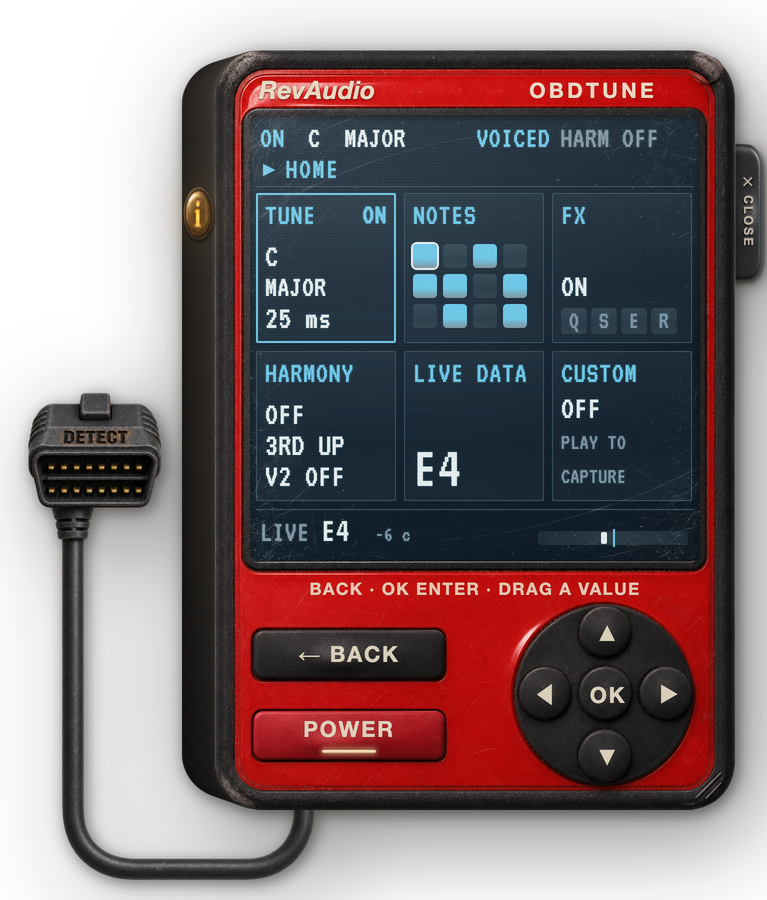
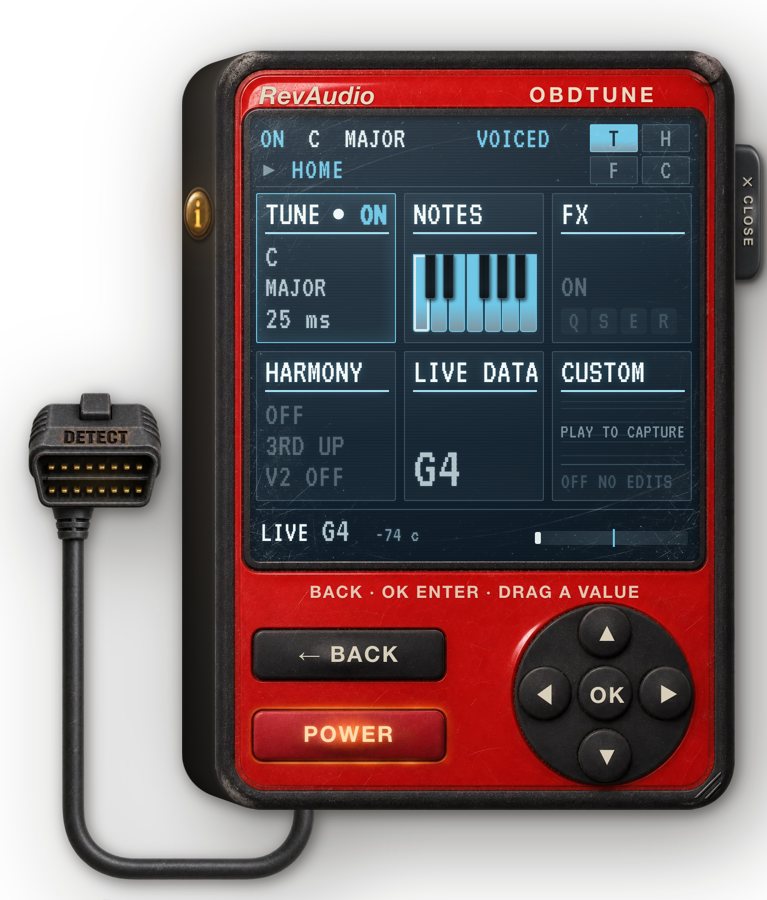
OBDTUNE on sale (Gil 2026-11-24): live at $15, listed on the home TV + /plugins (teal channel), /downloads, /support, /buy/obdtune and the /review picker; indexed
- plugins.ts: status live, introPriceUsd 15, os macOS 10.13+, a `library` entry (pitch correction; vocals + creative)
- WordWall: the 0.9.5 scanner as a float window (transparent, as GAS 2), channel hue 184 (clear of WIDE BEAM's 205)
- obdtune-hero.png: re-shot from 0.9.5 (the cart thumbnail and the TV)
- library.ts TV_ORDER: after WIDE BEAM; downloads DL_SLUGS: obdtune (the hub's DL_PLUGINS.obdtune is live)
- /obdtune index true (it was noindex); smoke route added

Windows: the hub's obdtune-win slot stays "coming soon" until Yoni uploads it on /pit-lane; nothing here waits on it.

diff --git a/src/data/plugins.ts b/src/data/plugins.ts
@@ -696,9 +696,9 @@ export const plugins: Plugin[] = [
     },
   },
   {
-    // OBDTUNE (2026-11-19): in the catalog for the cart only (its Paddle price; keep paddlePriceId and
-    // regularPriceUsd equal to src/data/obdtune.ts). No `library`: off the home TV until it is meant to be listed;
-    // 'in-development' keeps it off /support and /buy. The /obdtune page is its own route ([slug].astro OWN_ROUTE).
+    // OBDTUNE: on sale with the 0.9.5 Mac build (2026-11-24, Gil; Windows follows from Yoni). Keep paddlePriceId and
+    // introPriceUsd equal to src/data/obdtune.ts (paddlePriceId, priceUsd). 'live' puts it on /support, /buy/obdtune and
+    // the cart; `library` puts it on the home TV. The /obdtune page is its own route ([slug].astro OWN_ROUTE).
     slug: 'obdtune',
     name: 'OBDTUNE',
     category: 'vocal',
@@ -709,11 +709,11 @@ export const plugins: Plugin[] = [
       'It reads every note you sing, finds the key with DETECT and puts each note where it belongs, then stacks harmonies and finishes the vocal with EQ, compression, echo and reverb.',
     longPitch:
       'DETECT sets KEY and SCALE from a few sung bars. SPEED runs from a hard 1 ms snap to a 200 ms glide, HUMANIZE and FLEX keep the life in it, two harmony voices follow the scale, and the FX page adds EQ, SQUEEZE, ECHO and REVERB.',
-    status: 'in-development',
-    statusLabel: 'Free trial',
+    status: 'live',
+    statusLabel: 'Available now',
     trialOpen: true,
-    introPriceUsd: null,
-    regularPriceUsd: 15, // = obdtune.ts priceUsd (the cart's price; Paddle charges its own $15.00)
+    introPriceUsd: 15, // = obdtune.ts priceUsd (the cart's price; Paddle charges its own $15.00)
+    regularPriceUsd: null,
     paddlePriceId: 'pri_01m7vhe769c8s1rsqs3c0f0xvm',
     checkoutPaused: false,
     demoUrl: null,
@@ -726,9 +726,24 @@ export const plugins: Plugin[] = [
       { name: 'Harmony + FX', desc: 'Two scale-aware harmony voices, then EQ, SQUEEZE, ECHO and REVERB.' },
     ],
     audioDemos: [],
-    systemReq: { ...baseSystemReq, formats: 'VST3 + AU + AAX on Mac, VST3 + AAX + ARA on Windows' },
+    // = obdtune.ts formats: the Mac pkg (universal, macOS 10.13+) has no ARA yet; Windows ships OBDTUNE ARA beside it
+    systemReq: { ...baseSystemReq, os: 'Windows 10/11 64-bit, macOS 10.13+', formats: 'VST3 + AU + AAX on Mac, VST3 + AAX + ARA on Windows' },
     reviewsCount: 0,
     reviewsAvg: 0,
+    library: {
+      cats: ['vocals', 'creative'],
+      typeWord: 'pitch correction',
+      words: [
+        { w: 'Detect', o: 0.5 },
+        { w: 'Snap',   o: 0.72 },
+        { w: 'In tune', o: 1, hot: true },
+        { w: 'Human',  o: 0.72 },
+        { w: 'Stacked', o: 0.5 },
+      ],
+      blurb:
+        'Plug in the DETECT connector and it finds the key, then pulls every note in, from a hard snap to no trace. Two harmony voices and an FX page finish the vocal.',
+      alt: 'OBDTUNE plugin: a red handheld scan tool with an LCD of six tiles (TUNE, NOTES, FX, HARMONY, LIVE DATA, CUSTOM), a D-pad, BACK and POWER keys, and the DETECT plug on its cable',
+    },
   },
   {
     slug: 'the-ac',

diff --git a/src/data/obdtune.ts b/src/data/obdtune.ts
@@ -1,6 +1,6 @@
 /**
  * /obdtune commerce config: the one place the page reads its trial and buy state from (the src/data/widebeam.ts
- * pattern). OBDTUNE = the OBDTune repo (~/RevTune, main, 0.9.5), not released yet.
+ * pattern). OBDTUNE = the OBDTune repo (~/RevTune, main, 0.9.5): on sale from 2026-11-24, Mac first, Windows when Yoni uploads it.
  *
  * Commerce (Gil 2026-11-19, Paddle product pro_01m7vhdsxv3arw74gkb1fe9fxp):
  *   - gateWired true: the trial form posts {email, plugin, marketing} to the worker's /download/register first, which
@@ -8,8 +8,8 @@
  *     revlimiter-license 0f241f7; until /pit-lane ships the builds the email says "coming soon" per platform. The
  *     worker must be live before this page is, or the register call has no gate.
  *   - priceUsd + paddlePriceId: BUY NOW adds to the cart and opens it. plugins.ts has the same id and price (the cart
- *     only checks out slugs it finds there), [slug].astro OWN_ROUTE has 'obdtune', and the plugins.ts entry has no
- *     `library`, so OBDTUNE stays off the home TV until it is meant to be listed.
+ *     only checks out slugs it finds there), [slug].astro OWN_ROUTE has 'obdtune', and the plugins.ts entry is 'live' with a
+ *     `library` (2026-11-24): on the home TV, /plugins, /downloads, /support, /buy/obdtune and the /review picker.
  */
 import { site } from './site';
 

diff --git a/src/data/library.ts b/src/data/library.ts
@@ -44,7 +44,7 @@ const onTv = (p: Plugin) => !!p.library && (p.status === 'live' || !!p.trialOpen
 
 /** TV order, after DRIFT: DRIFT goes first while it leads the homepage (drift.homeLead, Dan 2026-10-08, "first
  *  slide until Nov 1"), then drops back to its slot here. A plugin missing from the list goes last. */
-const TV_ORDER = ['revlimiter', 'gas', 'gas2', 'drift', 'revfx', 'widebeam', 'radio-roulette'];
+const TV_ORDER = ['revlimiter', 'gas', 'gas2', 'drift', 'revfx', 'widebeam', 'obdtune', 'radio-roulette'];
 
 export function tvPlugins(): Plugin[] {
   const rank = (p: Plugin) => {

diff --git a/src/data/review-survey.ts b/src/data/review-survey.ts
@@ -47,7 +47,7 @@ export interface Section {
 }
 
 /** The plugins a visitor can review, in picker order. A slug must be a plugin in plugins.ts. Add one as it ships. */
-export const REVIEW_PLUGINS = ['revlimiter', 'drift', 'radio-roulette', 'gas', 'gas2', 'revfx', 'widebeam'] as const;
+export const REVIEW_PLUGINS = ['revlimiter', 'drift', 'radio-roulette', 'gas', 'gas2', 'revfx', 'widebeam', 'obdtune'] as const;
 
 export const reviewMeta = {
   version: 1,

diff --git a/tests/smoke.spec.ts b/tests/smoke.spec.ts
@@ -17,6 +17,7 @@ const STATIC_PAGES = [
   '/gas',
   '/thank-you',
   '/widebeam', // the WIDE BEAM page (unlisted until launch): 200 and no console errors; tests/widebeam.spec.ts holds its own assertions
+  '/obdtune', // the OBDTUNE page: 200 and no console errors
 ];
 
 const PLUGIN_SLUGS = ['revlimiter', 'radio-roulette', 'gas', 'drift', 'the-ac'];
